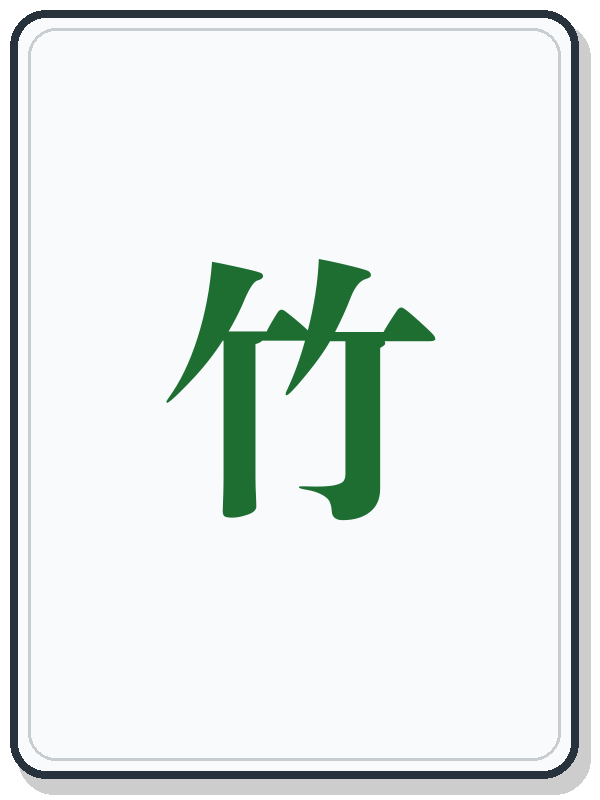
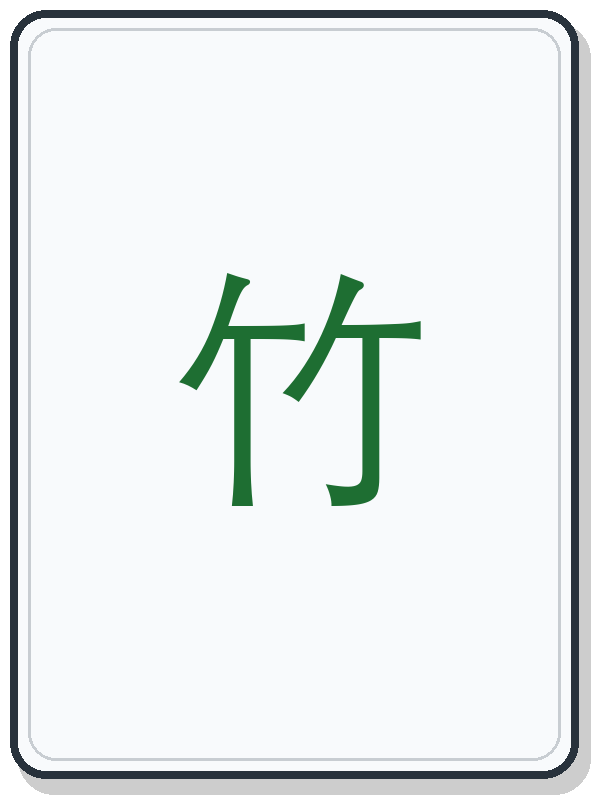
fix: load tile faces via CSS for go srcdoc
Runtime img.src relative paths break under composePreview blobs.
Serve faces as CSS background-image (rewritten to blob URLs) and
regenerate flower tiles so 蘭 is visible.

Changed region(s): [[0.27, 0.3125, 0.72, 0.6562]]

diff --git a/tiles.css b/tiles.css
@@ -1,0 +1,51 @@
+/* Tile faces via CSS url() so go-client composePreview rewrites to blob: */
+.tile-face {
+  display: block;
+  background-repeat: no-repeat;
+  background-position: center;
+  background-size: contain;
+}
+
+.tile-face-back { background-image: url("./assets/tiles/Back.png"); }
+.tile-face-man1 { background-image: url("./assets/tiles/Man1.png"); }
+.tile-face-man2 { background-image: url("./assets/tiles/Man2.png"); }
+.tile-face-man3 { background-image: url("./assets/tiles/Man3.png"); }
+.tile-face-man4 { background-image: url("./assets/tiles/Man4.png"); }
+.tile-face-man5 { background-image: url("./assets/tiles/Man5.png"); }
+.tile-face-man6 { background-image: url("./assets/tiles/Man6.png"); }
+.tile-face-man7 { background-image: url("./assets/tiles/Man7.png"); }
+.tile-face-man8 { background-image: url("./assets/tiles/Man8.png"); }
+.tile-face-man9 { background-image: url("./assets/tiles/Man9.png"); }
+.tile-face-pin1 { background-image: url("./assets/tiles/Pin1.png"); }
+.tile-face-pin2 { background-image: url("./assets/tiles/Pin2.png"); }
+.tile-face-pin3 { background-image: url("./assets/tiles/Pin3.png"); }
+.tile-face-pin4 { background-image: url("./assets/tiles/Pin4.png"); }
+.tile-face-pin5 { background-image: url("./assets/tiles/Pin5.png"); }
+.tile-face-pin6 { background-image: url("./assets/tiles/Pin6.png"); }
+.tile-face-pin7 { background-image: url("./assets/tiles/Pin7.png"); }
+.tile-face-pin8 { background-image: url("./assets/tiles/Pin8.png"); }
+.tile-face-pin9 { background-image: url("./assets/tiles/Pin9.png"); }
+.tile-face-sou1 { background-image: url("./assets/tiles/Sou1.png"); }
+.tile-face-sou2 { background-image: url("./assets/tiles/Sou2.png"); }
+.tile-face-sou3 { background-image: url("./assets/tiles/Sou3.png"); }
+.tile-face-sou4 { background-image: url("./assets/tiles/Sou4.png"); }
+.tile-face-sou5 { background-image: url("./assets/tiles/Sou5.png"); }
+.tile-face-sou6 { background-image: url("./assets/tiles/Sou6.png"); }
+.tile-face-sou7 { background-image: url("./assets/tiles/Sou7.png"); }
+.tile-face-sou8 { background-image: url("./assets/tiles/Sou8.png"); }
+.tile-face-sou9 { background-image: url("./assets/tiles/Sou9.png"); }
+.tile-face-ton { background-image: url("./assets/tiles/Ton.png"); }
+.tile-face-nan { background-image: url("./assets/tiles/Nan.png"); }
+.tile-face-shaa { background-image: url("./assets/tiles/Shaa.png"); }
+.tile-face-pei { background-image: url("./assets/tiles/Pei.png"); }
+.tile-face-haku { background-image: url("./assets/tiles/Haku.png"); }
+.tile-face-hatsu { background-image: url("./assets/tiles/Hatsu.png"); }
+.tile-face-chun { background-image: url("./assets/tiles/Chun.png"); }
+.tile-face-flower_plum { background-image: url("./assets/tiles/FlowerPlum.png"); }
+.tile-face-flower_orchid { background-image: url("./assets/tiles/FlowerOrchid.png"); }
+.tile-face-flower_bamboo { background-image: url("./assets/tiles/FlowerBamboo.png"); }
+.tile-face-flower_chrys { background-image: url("./assets/tiles/FlowerChrys.png"); }
+.tile-face-season_spring { background-image: url("./assets/tiles/SeasonSpring.png"); }
+.tile-face-season_summer { background-image: url("./assets/tiles/SeasonSummer.png"); }
+.tile-face-season_autumn { background-image: url("./assets/tiles/SeasonAutumn.png"); }
+.tile-face-season_winter { background-image: url("./assets/tiles/SeasonWinter.png"); }

diff --git a/app.js b/app.js
@@ -11,13 +11,7 @@ import {
   listChiOptions,
   seatWindLabel,
 } from "./game.js";
-import {
-  SEAT_NAMES,
-  WIND_LABELS,
-  assetPath,
-  backPath,
-  tileDef,
-} from "./tiles.js";
+import { SEAT_NAMES, WIND_LABELS, tileDef } from "./tiles.js";
 
 const audio = new MahjongAudio();
 /** @type {import('./game.js').GameState} */
@@ -380,7 +374,10 @@ function renderHand() {
     btn.setAttribute("role", "option");
     btn.setAttribute("aria-selected", selectedId === t.id ? "true" : "false");
     btn.title = tileDef(t.key).label;
-    btn.appendChild(tileImg(t.key, false));
+    const face = document.createElement("span");
+    face.className = `tile-face tile-face-${t.key}`;
+    face.setAttribute("aria-hidden", "true");
+    btn.appendChild(face);
     btn.addEventListener("click", () => {
       if (busy) return;
       if (
@@ -507,19 +504,21 @@ function renderActions() {
 }
 
 /**
+ * CSS background faces (tiles.css) — works under go-client srcdoc blob rewrite.
  * @param {string | null} key
  * @param {boolean} mini
  * @param {boolean} [forceBack]
  */
 function tileImg(key, mini, forceBack = false) {
-  const btn = document.createElement("span");
-  btn.className = "tile" + (mini ? " mini" : "") + (forceBack || !key ? " back" : "");
-  const img = document.createElement("img");
-  img.alt = key ? tileDef(key).label : "牌背";
-  img.src = forceBack || !key ? backPath() : assetPath(key);
-  img.decoding = "async";
-  btn.appendChild(img);
-  return btn;
+  const wrap = document.createElement("span");
+  wrap.className = "tile" + (mini ? " mini" : "") + (forceBack || !key ? " back" : "");
+  const face = document.createElement("span");
+  const faceKey = forceBack || !key ? "back" : key;
+  face.className = `tile-face tile-face-${faceKey}`;
+  face.setAttribute("role", "img");
+  face.setAttribute("aria-label", key && !forceBack ? tileDef(key).label : "牌背");
+  wrap.appendChild(face);
+  return wrap;
 }
 
 render();

diff --git a/styles.css b/styles.css
@@ -259,11 +259,9 @@ button:disabled {
   position: relative;
 }
 
-.tile img {
+.tile .tile-face {
   width: 100%;
   height: 100%;
-  object-fit: contain;
-  display: block;
   border-radius: 0.2rem;
   box-shadow: 0 1px 2px rgba(0, 0, 0, 0.35);
   pointer-events: none;
@@ -288,7 +286,7 @@ button:disabled {
   padding: 0.15rem;
 }
 
-.hand .tile img {
+.hand .tile .tile-face {
   width: calc(var(--tile-h) * 0.78);
   height: var(--tile-h);
 }
@@ -299,7 +297,7 @@ button:disabled {
   outline-offset: 1px;
 }
 
-.hand .tile.selected img {
+.hand .tile.selected .tile-face {
   box-shadow: 0 0 0 2px #fbbf24;
 }
 

diff --git a/index.html b/index.html
@@ -10,6 +10,7 @@
     />
     <title>台灣麻將</title>
     <link rel="stylesheet" href="./styles.css" />
+    <link rel="stylesheet" href="./tiles.css" />
   </head>
   <body>
     <main>

diff --git a/README.md b/README.md
@@ -52,6 +52,7 @@ python3 -m http.server 8080
 | `app.js` | UI、叫牌、AI 節奏 |
 | `game.js` | 規則、`applyAction`、計台 |
 | `tiles.js` | 牌鍵與圖檔 |
+| `tiles.css` | 牌面 `background-image`（go srcdoc 可改寫 blob） |
 | `ai.js` | 簡易人機 |
 | `protocol.js` | 預留 `mahjong.v1`（無網路） |
 | `audio.js` | Web Audio |
